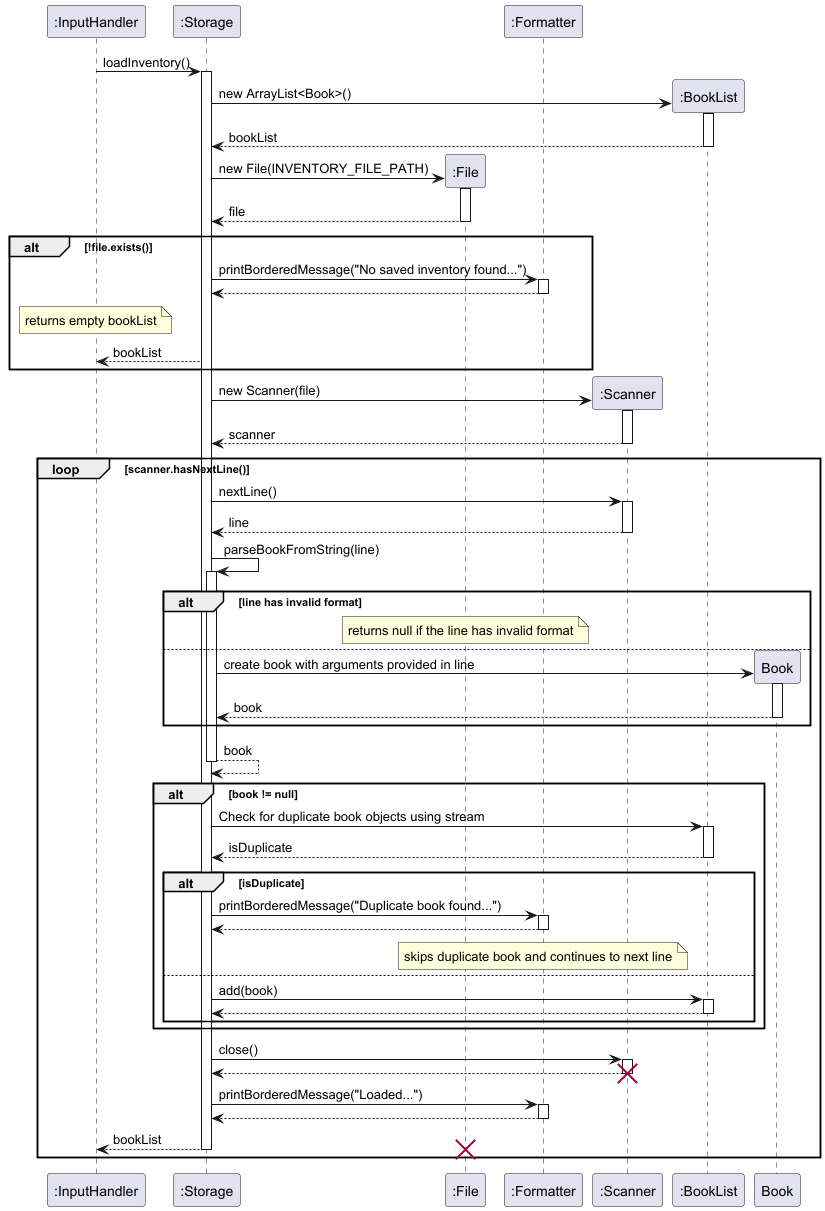
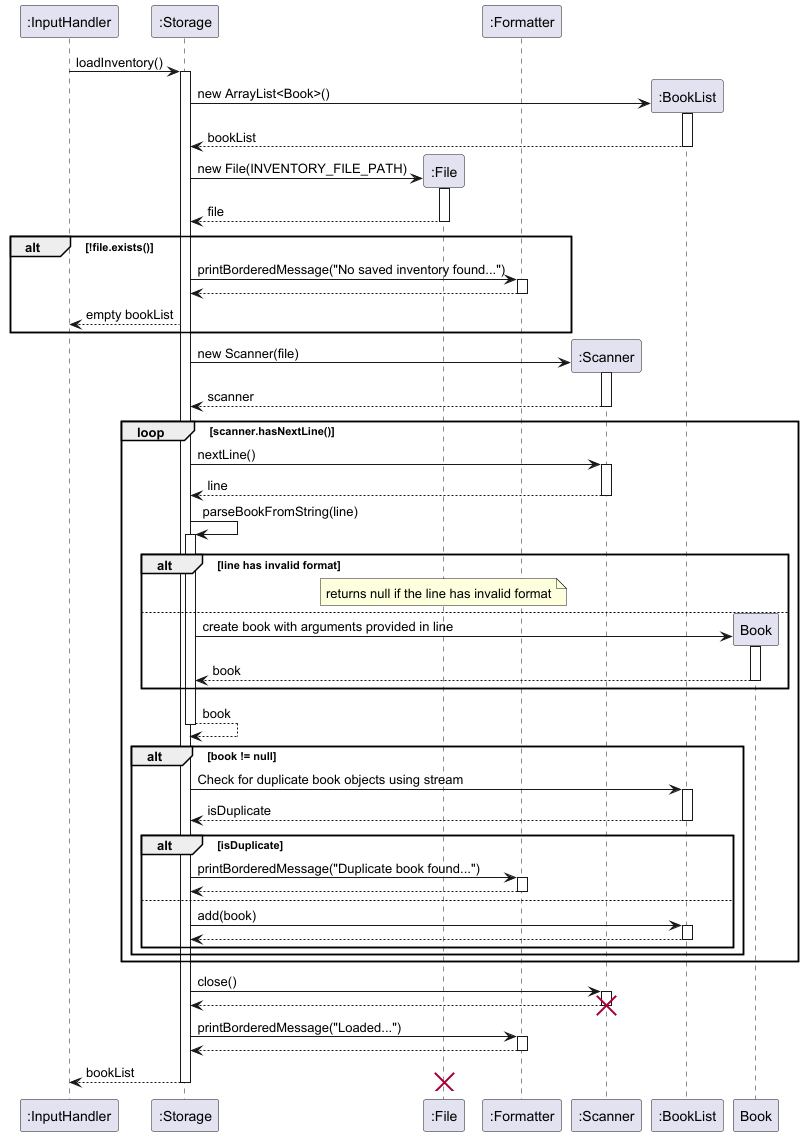
Fix loadInventory sequence diagram and explanation

Changed region(s): [[0.0, 0.0, 0.9963, 1.0], [0.5915, 0.0, 0.7161, 0.0924], [0.7783, 0.0616, 0.9029, 0.1232]]

diff --git a/docs/DeveloperGuide.md b/docs/DeveloperGuide.md
@@ -470,18 +470,30 @@ The following UML sequence diagram shows the relevant behaviour:
 
 ![loadInventory.png](images/loadInventory.png)
 
-1. Initialization: `InputHandler` invokes `Storage.loadInventory()`, which creates an empty `BookList`.
+1. Initialization: `InputHandler` invokes `Storage.loadInventory()`, which initializes an empty `ArrayList<Book>`.
 
-2. File Existence Check: A `File` object is created for the inventory file path. If the file does not exist, a message is printed using `Formatter.printBorderedMessage()`, and an empty `BookList` is returned early.
+2. File Existence Check:  
+   A `File` object is created for the inventory file path.  
+   - If the file does not exist:
+     - A message is printed using `Formatter.printBorderedMessage()` indicating no saved inventory was found.
+     - A new file is created, and an empty `ArrayList<Book>` is returned.
 
-3. File Reading: If the file exists, a `Scanner` is created to read the file. The method enters a loop, reading each line from the file with `scanner.nextLine()`.
+3. File Reading:  
+   If the file exists:
+   - A `Scanner` reads the file line by line.
+   - Each line is passed to `parseBookFromString(line)` to convert it into a `Book` object.
 
-   - For each line, `parseBookFromString()` is called to convert the line into a `Book` object.
-   - If the returned `Book` is not `null`, it is added to the `bookList`.
-   - Duplicate books are skipped, and a message is printed for each duplicate.
-   - Invalid entries are skipped, and a message is printed for each invalid entry.
+4. Book Validation:  
+   - If the `Book` is `null`, a message is printed indicating the entry was skipped.
+   - If valid, duplicates are checked using `bookList.stream().anyMatch(...)`.  
+     - If a duplicate is found, a message is printed, and the book is skipped.
+     - Otherwise, the book is added to the `bookList`.
 
-4. After processing all lines, the `Scanner` is closed. A message is printed indicating the number of books loaded. Finally, the populated `bookList` is returned.
+5. Completion:  
+   - After processing all lines in file, the `Scanner` is closed.
+   - A message is printed indicating the number of books loaded.
+   - The populated `bookList` is returned.
+
 
 ## Appendix A: Product scope
 
